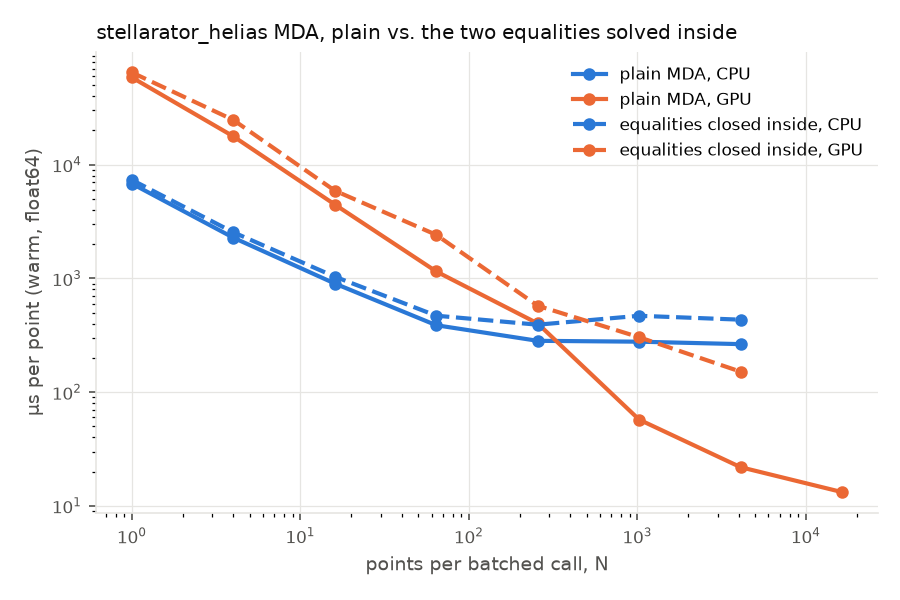
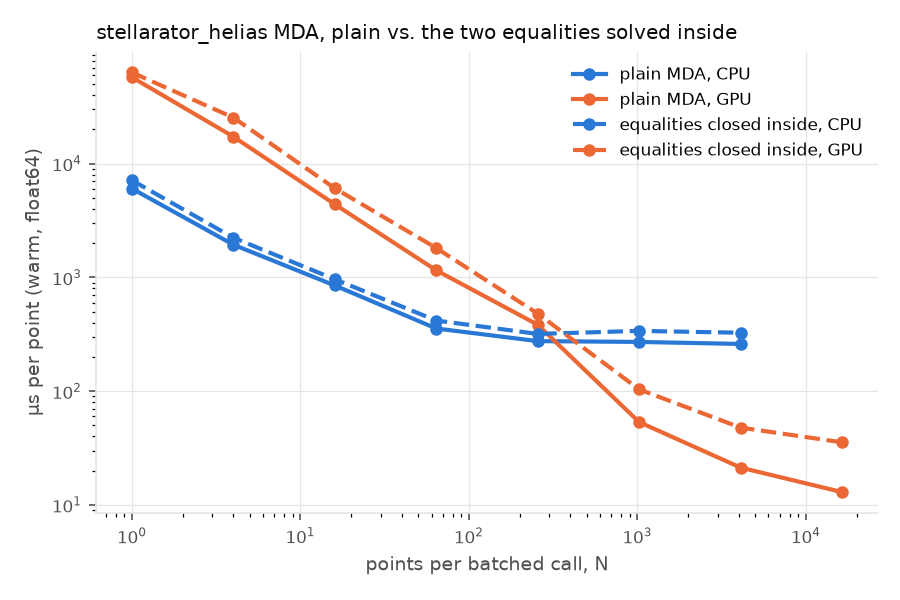
close_conditions: the Newton's backtracking loop stops for points the batch has finished -- closed GPU call 605 -> 196 ms at N=4096
Under vmap a while_loop runs its body until the LAST point's predicate is false; a
converged point's Newton step is noise at the root, so its 12-halving backtracking
ran to the cap for the whole batch, every halving one evaluation of the 27-node c16
cycle: 24 wasted cycle evaluations of the closed call's ~34. Masking the halving
predicate by the outer loop's activity (a converged point does not halve) drops it,
answers unchanged to the printed digits. Not the implicit linear solves: those lower
to batched cusolver_getrf on [N,1,1]/[N,2,2] and cost nothing measurable.

diff --git a/paper_tests/out/close_conditions_batch_gpu.tex b/paper_tests/out/close_conditions_batch_gpu.tex
@@ -1,24 +1,24 @@
-% generated by paper_tests/close_conditions.py on 2026-09-16 17:58; PROCESS 5d76ce85 (+uncommitted); cottax a3e4c56; AMD Ryzen 7 3700X 8-Core Processor, PC-Timo
+% generated by paper_tests/close_conditions.py on 2026-09-16 20:02; PROCESS df6e97ce (+uncommitted); cottax a3e4c56; AMD Ryzen 7 3700X 8-Core Processor, PC-Timo
 % gpu; N > 1 is jax.vmap over N design points, each design entry perturbed by +-1 %
 \begin{tabular}{lrrrrrr}
 \toprule
 MDA & N & compile s & warm s & $\mu$s/point & $\max|h|$ & max Newton steps \\
 \midrule
-plain & 1 & 5.4 & 0.0585 & 58478.5 & -- & -- \\
-plain & 4 & 8.1 & 0.0709 & 17732.7 & -- & -- \\
-plain & 16 & 8.3 & 0.0714 & 4461.5 & -- & -- \\
-plain & 64 & 8.4 & 0.0736 & 1150.1 & -- & -- \\
-plain & 256 & 8.5 & 0.1028 & 401.5 & -- & -- \\
-plain & 1024 & 8.6 & 0.0586 & 57.3 & -- & -- \\
-plain & 4096 & 9.4 & 0.0895 & 21.8 & -- & -- \\
-plain & 16384 & 9.5 & 0.2161 & 13.2 & -- & -- \\
-closed & 1 & 14.1 & 0.0647 & 64681.4 & 1.23e-12 & 0 \\
-closed & 4 & 20.4 & 0.0988 & 24710.8 & 4.40e-11 & 3 \\
-closed & 16 & 21.0 & 0.0945 & 5905.7 & 8.96e-11 & 3 \\
-closed & 64 & 21.4 & 0.1545 & 2414.7 & 9.54e-11 & 4 \\
-closed & 256 & 21.7 & 0.1471 & 574.5 & 9.81e-11 & 4 \\
-closed & 1024 & 22.7 & 0.3109 & 303.6 & 9.97e-11 & 5 \\
-closed & 4096 & 23.2 & 0.6191 & 151.2 & 9.99e-11 & 4 \\
-closed & 16384 & JaxRuntimeError: RESOURCE_EXHAUSTED: Out of memory while trying to allocate 1.72GiB with allocato &  &  &  &  \\
+plain & 1 & 5.2 & 0.0575 & 57491.5 & -- & -- \\
+plain & 4 & 7.8 & 0.0691 & 17268.4 & -- & -- \\
+plain & 16 & 8.1 & 0.0703 & 4392.5 & -- & -- \\
+plain & 64 & 8.2 & 0.0739 & 1154.1 & -- & -- \\
+plain & 256 & 7.9 & 0.0982 & 383.8 & -- & -- \\
+plain & 1024 & 8.5 & 0.0548 & 53.5 & -- & -- \\
+plain & 4096 & 9.1 & 0.0872 & 21.3 & -- & -- \\
+plain & 16384 & 9.2 & 0.2125 & 13.0 & -- & -- \\
+closed & 1 & 13.5 & 0.0633 & 63319.1 & 1.23e-12 & 0 \\
+closed & 4 & 19.8 & 0.1016 & 25411.3 & 4.40e-11 & 3 \\
+closed & 16 & 19.9 & 0.0971 & 6070.8 & 8.96e-11 & 3 \\
+closed & 64 & 20.5 & 0.1161 & 1813.3 & 9.54e-11 & 4 \\
+closed & 256 & 20.8 & 0.1231 & 480.8 & 9.81e-11 & 4 \\
+closed & 1024 & 21.6 & 0.1062 & 103.7 & 9.97e-11 & 5 \\
+closed & 4096 & 20.8 & 0.1960 & 47.8 & 9.99e-11 & 4 \\
+closed & 16384 & 23.9 & 0.5822 & 35.5 & 1.00e-10 & 4 \\
 \bottomrule
 \end{tabular}

diff --git a/paper_tests/close_conditions.py b/paper_tests/close_conditions.py
@@ -336,6 +336,17 @@ class SafeguardedNewtonDriver(mdf.MdfNewtonDriver):
     cap: float = 0.5
     """Largest step, relative to the current iterate."""
     halvings: int = 12
+    """Backtracking budget per Newton step. **Only an active point may spend it**
+    (`worse` below is masked by `norm(r) > tol`): under `jax.vmap` a `while_loop` runs
+    its body for every point until the last one's predicate is false, with `select` on
+    the carry -- so a point the outer loop has already finished still evaluates a
+    Newton step, and at a root that step is noise, `norm(r_new) >= norm(r)` half the
+    time, and its halving loop runs to the 12-step cap, each halving one evaluation
+    of the whole cycle **for the whole batch**. Measured on the GPU at N = 4096 before
+    the mask: no active point ever needed a halving, the batch-max halvings per outer
+    step were [0, 0, 12, 12] once 25 % of the points had converged, and the driver
+    was 852 ms against 186 ms with them masked (the same `u`, the same step counts).
+    For a single point the mask changes nothing: the outer `go_on` implies it."""
 
     def __call__(self, conditions, data) -> tuple:
         from jax import lax  # noqa: PLC0415
@@ -361,10 +372,12 @@ class SafeguardedNewtonDriver(mdf.MdfNewtonDriver):
                 bound = cap * jnp.maximum(jnp.abs(u), 1e-3)
                 du = jnp.clip(du, -bound, bound)
 
+                active = norm(r) > tol  # false where the outer loop is done (vmap)
+
                 def worse(bs):
                     _t, r_new, j = bs
                     bad = ~jnp.all(jnp.isfinite(r_new)) | (norm(r_new) >= norm(r))
-                    return bad & (j < halvings)
+                    return bad & (j < halvings) & active
 
                 def halve(bs):
                     t, _r_new, j = bs
@@ -676,6 +689,7 @@ def batch_rows(sizes=(1, 4, 16, 64, 256, 1024, 4096), repeats=3) -> list[dict]:
             arg = PathMap(values)
             fn = batched if n > 1 else single
             arg = arg if n > 1 else point
+            out = None  # the previous size's output is not kept alive across this call
             try:
                 began = time.perf_counter()
                 out = jax.block_until_ready(fn(arg))

diff --git a/paper_tests/out/close_conditions_batch_cpu.tex b/paper_tests/out/close_conditions_batch_cpu.tex
@@ -1,22 +1,22 @@
-% generated by paper_tests/close_conditions.py on 2026-09-16 17:39; PROCESS 5d76ce85 (+uncommitted); cottax a3e4c56; AMD Ryzen 7 3700X 8-Core Processor, PC-Timo
+% generated by paper_tests/close_conditions.py on 2026-09-16 20:05; PROCESS df6e97ce (+uncommitted); cottax a3e4c56; AMD Ryzen 7 3700X 8-Core Processor, PC-Timo
 % cpu; N > 1 is jax.vmap over N design points, each design entry perturbed by +-1 %
 \begin{tabular}{lrrrrrr}
 \toprule
 MDA & N & compile s & warm s & $\mu$s/point & $\max|h|$ & max Newton steps \\
 \midrule
-plain & 1 & 3.0 & 0.0068 & 6804.7 & -- & -- \\
-plain & 4 & 5.8 & 0.0091 & 2278.5 & -- & -- \\
-plain & 16 & 5.8 & 0.0144 & 900.8 & -- & -- \\
-plain & 64 & 5.9 & 0.0248 & 387.2 & -- & -- \\
-plain & 256 & 6.0 & 0.0723 & 282.3 & -- & -- \\
-plain & 1024 & 5.9 & 0.2841 & 277.4 & -- & -- \\
-plain & 4096 & 6.9 & 1.0814 & 264.0 & -- & -- \\
-closed & 1 & 10.6 & 0.0073 & 7339.9 & 1.23e-12 & 0 \\
-closed & 4 & 16.4 & 0.0102 & 2541.3 & 4.40e-11 & 3 \\
-closed & 16 & 17.0 & 0.0166 & 1035.4 & 8.96e-11 & 3 \\
-closed & 64 & 17.5 & 0.0301 & 469.7 & 9.54e-11 & 4 \\
-closed & 256 & 18.2 & 0.1002 & 391.3 & 9.81e-11 & 4 \\
-closed & 1024 & 18.6 & 0.4801 & 468.9 & 9.97e-11 & 5 \\
-closed & 4096 & 19.2 & 1.7743 & 433.2 & 9.99e-11 & 4 \\
+plain & 1 & 2.9 & 0.0060 & 6037.0 & -- & -- \\
+plain & 4 & 5.1 & 0.0078 & 1939.3 & -- & -- \\
+plain & 16 & 5.4 & 0.0136 & 849.2 & -- & -- \\
+plain & 64 & 5.5 & 0.0228 & 355.6 & -- & -- \\
+plain & 256 & 5.4 & 0.0705 & 275.4 & -- & -- \\
+plain & 1024 & 5.8 & 0.2775 & 271.0 & -- & -- \\
+plain & 4096 & 6.8 & 1.0655 & 260.1 & -- & -- \\
+closed & 1 & 10.1 & 0.0071 & 7139.7 & 1.23e-12 & 0 \\
+closed & 4 & 15.9 & 0.0089 & 2232.6 & 4.40e-11 & 3 \\
+closed & 16 & 17.0 & 0.0154 & 963.0 & 8.96e-11 & 3 \\
+closed & 64 & 16.9 & 0.0267 & 417.8 & 9.54e-11 & 4 \\
+closed & 256 & 16.9 & 0.0816 & 318.6 & 9.81e-11 & 4 \\
+closed & 1024 & 18.2 & 0.3470 & 338.8 & 9.97e-11 & 5 \\
+closed & 4096 & 17.6 & 1.3370 & 326.4 & 9.99e-11 & 4 \\
 \bottomrule
 \end{tabular}
